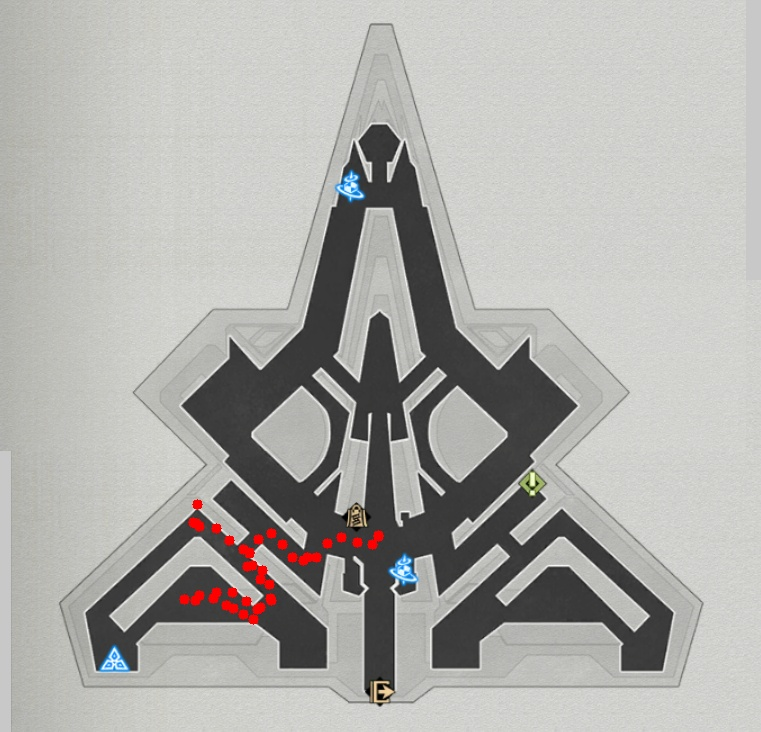
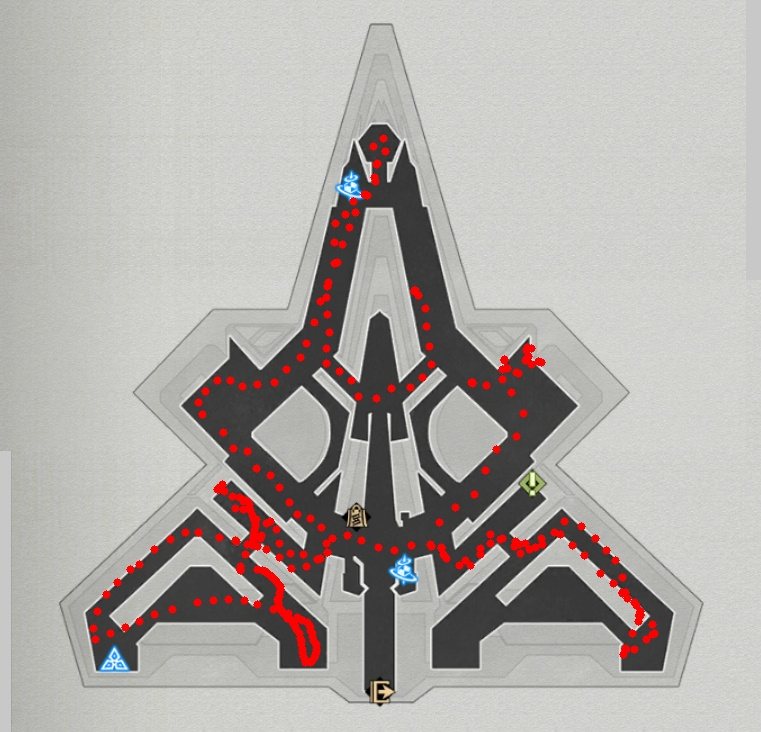
finalize map location finding

diff --git a/Utils/MapNavigation.py b/Utils/MapNavigation.py
@@ -7,8 +7,9 @@ std_width: int = 1280
 std_height: int = 720
 search_width: int = 130
 search_height: int = 130
-SMALL = 1.035
-LARGE = 1.265
+SMALL = 1
+LARGE = 1.3
+STEPS = 10
 
 
 class MapNavigation:
@@ -17,8 +18,6 @@ class MapNavigation:
         self.controls = controls
         self.screen = controls.screen
         self.controls.getScreen()
-        # self.previous = self.getMap()
-        # self.current = self.getMap()
 
     def setBigMap(self, bigMap):
         map = cv2.imread(bigMap)
@@ -46,28 +45,17 @@ class MapNavigation:
 
     def getInitPos(self):
         self.current = self.getMap()
-        currentOffset, value = patchMatch(self.current, SMALL, self.bigMap)
-        res = cv2.warpAffine(
-            self.current,
-            np.float32([[1, 0, currentOffset[0]], [0, 1, currentOffset[1]]]),
-            (self.bigMap.shape[1], self.bigMap.shape[0]))
-        size = self.current.shape
-        cv2.imwrite(f"Screen/align0.jpg", self.bigMap - res + 128)
-        self.offset = [currentOffset[0], currentOffset[1]]
-        print(self.offset, value)
+        self.analyzeFull()
 
     def update(self):
-        # self.previous = self.current
         self.current = self.getMap()
         self.index += 1
-        # cv2.imwrite("Screen/previous.jpg", self.previous)
-        # cv2.imwrite("Screen/current.jpg", self.current)
         if not (self.analyze()):
             self.debug = self.source.copy()
             self.analyzeFull()
         cv2.circle(self.debug,
                    (int(self.offset[0] + self.current.shape[1] / 2),
-                    int(self.offset[1] + self.current.shape[0] / 2)), 5,
+                    int(self.offset[1] + self.current.shape[0] / 2)), 4,
                    (0, 0, 255), -1)
         cv2.imwrite(f"Screen/debug.jpg", self.debug)
 
@@ -83,7 +71,7 @@ class MapNavigation:
             np.float32([[1, 0, mapOffset[0]], [0, 1, mapOffset[1]]]),
             (search_width, search_height))
         currentOffset, valueMax, currentScale = patchMatchScale(
-            img1, SMALL, LARGE, 20, searchMap, mode="relative")
+            img1, SMALL, LARGE, STEPS, searchMap)
         if (abs(currentOffset[0]) > threshold
                 or abs(currentOffset[1]) > threshold):
             return False
@@ -101,14 +89,15 @@ class MapNavigation:
         #                                                  self.offset[1]]]),
         #     (self.bigMap.shape[1], self.bigMap.shape[0]))
         # cv2.imwrite(f"Screen/align{self.index}.jpg", self.bigMap - res + 128)
-        print(valueMax, currentScale, self.offset)
+        # print(valueMax, currentScale, self.offset)
         return True
 
     def analyzeFull(self):
         img1 = self.current  # queryImage
         size = img1.shape
         currentOffset, valueMax, currentScale = patchMatchScale(
-            img1, SMALL, LARGE, 20, self.bigMap)
+            img1, SMALL, LARGE, STEPS, self.bigMap)
+        self.offset = currentOffset
         # shift = [(1 - currentScale) * size[1] / 2,
         #          (1 - currentScale) * size[0] / 2]
         # final = cv2.warpAffine(
@@ -117,8 +106,7 @@ class MapNavigation:
         #                 [0, currentScale, shift[1]]]), (size[1], size[0]))
         # res = cv2.warpAffine(
         #     final,
-        #     np.float32([[1, 0, currentOffset[0]], [0, 1, currentOffset[1]]]),
+        #     np.float32([[1, 0, self.offset[0]], [0, 1, self.offset[1]]]),
         #     (self.bigMap.shape[1], self.bigMap.shape[0]))
         # cv2.imwrite(f"Screen/align{self.index}.jpg", self.bigMap - res + 128)
-        self.offset = currentOffset
         # print(valueMax, currentScale, self.offset)

diff --git a/Utils/PatchMatch.py b/Utils/PatchMatch.py
@@ -1,9 +1,6 @@
 import numpy as np
 import cv2
 
-std_width: int = 1280
-std_height: int = 720
-
 
 def getEdge(img, low=300, high=500):
     img = cv2.cvtColor(img, cv2.COLOR_BGR2GRAY)
@@ -11,29 +8,29 @@ def getEdge(img, low=300, high=500):
     return edges
 
 
-def patchMatch(target1, scale, target2, mode="origin"):
+def patchMatch(target1, scale, target2):
     size = target1.shape
     shift = [(1 - scale) * size[1] / 2, (1 - scale) * size[0] / 2]
+    shift = [(target2.shape[1] - scale * size[1]) / 2,
+             (target2.shape[0] - scale * size[0]) / 2]
     target1 = cv2.warpAffine(
         target1, np.float32([[scale, 0, shift[0]], [0, scale, shift[1]]]),
         (target2.shape[1], target2.shape[0]))
     offset, value = cv2.phaseCorrelate(target1, target2)
-    currentOffset = [offset[0], offset[1]]
-    if mode == "origin":
-        if (offset[0] < 0):
-            currentOffset[0] += target2.shape[1]
-        if (offset[1] < 0):
-            currentOffset[1] += target2.shape[0]
+    currentOffset = [
+        offset[0] + (target2.shape[1] - size[1]) / 2,
+        offset[1] + (target2.shape[0] - size[0]) / 2
+    ]
     return currentOffset, value
 
 
-def patchMatchScale(target1, small, large, steps, target2, mode="origin"):
+def patchMatchScale(target1, small, large, steps, target2):
     size = target1.shape
     gap = large - small
     valueMax = -1
     for i in range(steps + 1):
         scale = small + gap * i / steps
-        offset, value = patchMatch(target1, scale, target2, mode)
+        offset, value = patchMatch(target1, scale, target2)
         if value > valueMax:
             valueMax = value
             currentScale = scale

diff --git a/Utils/params.py b/Utils/params.py
@@ -73,6 +73,7 @@ dict = {
     "select": "Templates/Rougelike/Select_0,0,0,0.png",
     # map
     "map01": "Templates/BigMaps/BigMap01.png",
+    "map01test": "Templates/BigMaps/BigMap01test.png",
     "map02": "Templates/BigMaps/BigMap02.png",
     "map03": "Templates/BigMaps/BigMap03.png",
     "map04": "Templates/BigMaps/BigMap04.png",

diff --git a/main.py b/main.py
@@ -25,7 +25,7 @@ map = MapNavigation(controls, posDict["mapOffset"])
 # task.doTask("taskSub7", "taskSub7a", 1)
 # task.backToMain()
 
-# map.setBigMap(dict["map01"])
+map.setBigMap(dict["map01"])
 map.getInitPos()
 while (1):
     map.update()
